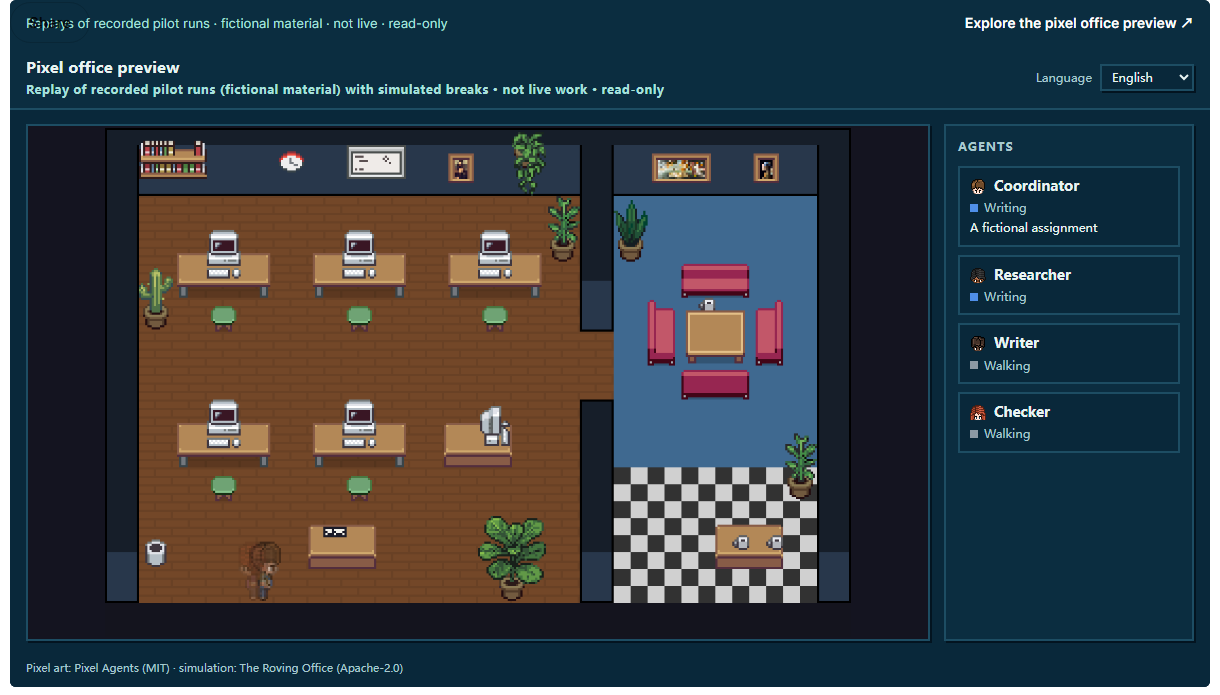
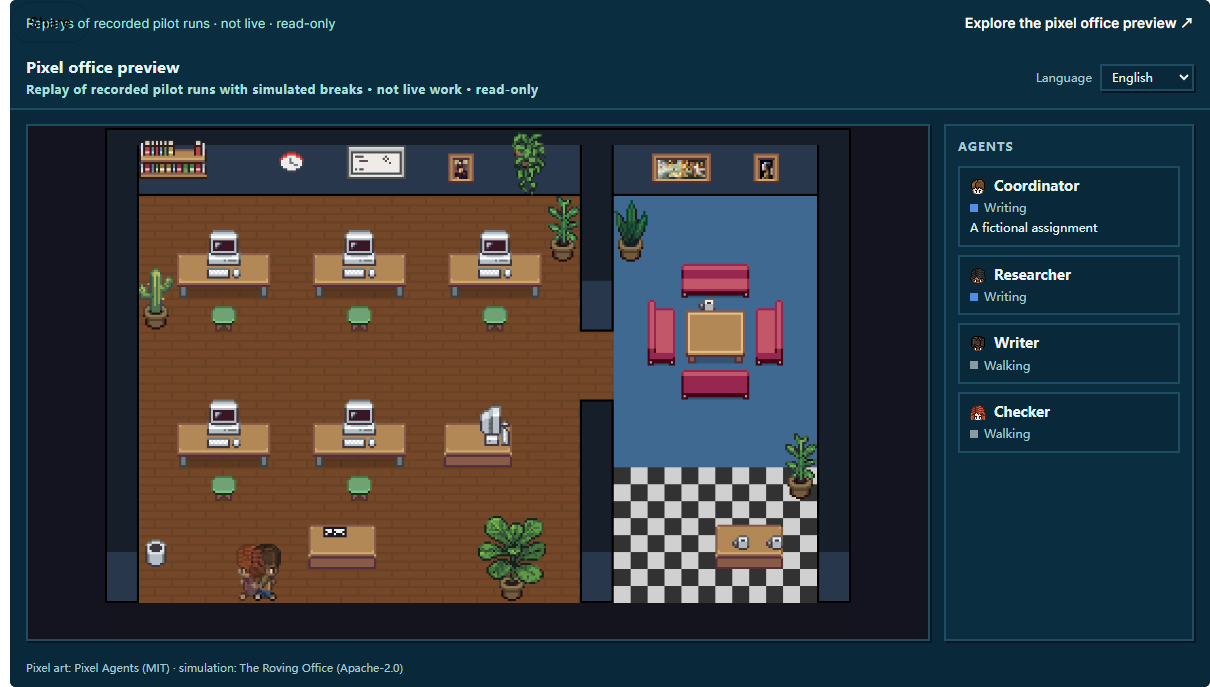
Add the news brief rehearsal and the narrower web access
The showcase now says that pilot runs used fictional material apart from one
unpublished rehearsal on real news, that only the Researcher and the Checker
can read the web, and that the office replays four runs. Test and phrase
counts, the office screenshot and the poster are refreshed.

diff --git a/README.zh-CN.md b/README.zh-CN.md
@@ -10,7 +10,7 @@
 **[打开网站预览](https://tas-stu-notes-preview.azurewebsites.net/?lang=zh-Hans)** · **[一篇文章是怎么做出来的](https://tas-stu-notes-preview.azurewebsites.net/how-we-work/?lang=zh-Hans)** · **[看像素办公室](https://tas-stu-notes-preview.azurewebsites.net/office/?lang=zh-Hans)** · **[条款与隐私](https://tas-stu-notes-preview.azurewebsites.net/terms/?lang=zh-Hans)**
 
 这个仓库是**精选的作品集展示版**，不是源码仓库。这里只有项目介绍、公开预览站的截图和一张海报。
-网站目前是原型，还没有发表任何文章。编辑部只在编辑本人的电脑上私下运行，试运行用的都是虚构材料。
+网站目前是原型，还没有发表任何文章。编辑部只在编辑本人的电脑上私下运行。试运行用的是虚构材料，只有一次彩排（2026 年 11 月 15 日）用了真实的公开新闻，没有发布。
 
 ## 项目现状
 
@@ -28,7 +28,7 @@
 
 1. 打开[预览站](https://tas-stu-notes-preview.azurewebsites.net/?lang=zh-Hans)，在英语、简体中文、孟加拉语、尼泊尔语、韩语和越南语之间切换。默认是英文，除非你自己选了别的语言。
 2. 读[一篇文章是怎么做出来的](https://tas-stu-notes-preview.azurewebsites.net/how-we-work/?lang=zh-Hans)：四个 AI 角色、人类编辑，以及谁批准什么。
-3. 看[像素办公室](https://tas-stu-notes-preview.azurewebsites.net/office/?lang=zh-Hans)：它回放三段录下来的试运行，然后是一段模拟的休息时间。页面上标明是回放，从不冒充实时工作。
+3. 看[像素办公室](https://tas-stu-notes-preview.azurewebsites.net/office/?lang=zh-Hans)：它回放四段录下来的试运行，然后是一段模拟的休息时间。页面上标明是回放，从不冒充实时工作。
 4. 站内搜索（放大镜或 Ctrl+K）、分享页面，或用你的语言订阅 RSS。
 
 | 像素办公室回放 | 一篇文章是怎么做出来的 |
@@ -54,7 +54,7 @@ flowchart LR
 ```
 
 - **一块看板。** 任务以 issue 的形式进入自托管的 Multica 看板，通常来自一条 Slack 消息。协调员把它拆成几步，一次交给一个角色。
-- **角色分开。** 每个任务在自己的工作空间里运行。各角色之间不共享记忆，网页搜索和浏览工具都已关闭，也不能自行加载额外的插件或指令。
+- **角色分开。** 每个任务在自己的工作空间里运行。各角色之间不共享记忆，也不能自行加载额外的插件或指令。只有研究员和核查员能搜索、阅读公开网页；协调员和写稿员没有网页工具，所以写稿员只能根据研究员整理的证据写稿。
 - **请别家公司来核查。** 协调员、研究员、写稿员用 Claude；核查员用 OpenAI 的 Codex，所以不会有模型核查自己写的东西。
 - **分级批准。** 协调员可以批准步骤之间的常规交接；只有人类编辑能关闭整篇任务。若有角色越权关闭了任务，守卫程序会把它重新打开。
 - **回放就是回放。** 私有的办公室画面实时跟随看板，只在编辑的电脑上能看。录像只保留时间、角色和动作种类，不保留标题和文字；每段录像都要人看过，才会变成公开回放。
@@ -67,8 +67,9 @@ flowchart LR
 
 | 检查 | 结果 | 说明了什么 |
 | --- | --- | --- |
-| 编辑部测试，2026-11-15 | 45 项全部通过 | 守卫、办公室信号、录像和回放导出的规则都按设计工作。代码不公开。 |
-| 语言检查，2026-11-15 | 网站 121 个字段、办公室 58 条短语，六种语言齐全，覆盖 15 个页面 | 每种语言都完整、是最新的；不代表译文质量。 |
+| 编辑部测试，2026-11-15 | 46 项全部通过 | 守卫、办公室信号、录像和回放导出的规则都按设计工作。代码不公开。 |
+| 语言检查，2026-11-15 | 网站 121 个字段、办公室 59 条短语，六种语言齐全，覆盖 15 个页面 | 每种语言都完整、是最新的；不代表译文质量。 |
+| 新闻简报彩排，2026-11-15 | 用真实的公开新闻，从 Slack 请求到协调员汇总约 25 分钟。选题由编辑决定。核查员第一轮标出 3 处说过头、1 处未能核实；写稿员改完后，第二轮所有说法都有出处 | 各角色能在编辑选题的前提下，把一项真实新闻任务从头做到尾。发现并修好了两个交接问题：请求被挂到旧任务上，以及一次 @ 写法不对让流程停了约 10 分钟。没有发布任何内容。 |
 | 分级批准试运行，2026-11-13 | 约 90 秒内完成三次协调员批准；守卫没有撤回任何操作 | 在虚构材料上，各角色遵守了批准规则。这是一次短时试运行，不是持续运营。 |
 | 公开预览站，2026-11-13 至 15 | 页面、订阅源和回放都正常；写入请求被拒绝；没有实时事件接口；不设置任何 Cookie | 公开站是只读的，无法显示实时工作。 |
 
@@ -82,7 +83,8 @@ flowchart LR
 ## 还没完成的
 
 - 还没有发表文章，也还没开放投稿。
-- 编辑部只在虚构材料上做过短时试运行。
+- 编辑部只做过短时试运行：用虚构材料，加上一次没有发布的真实新闻彩排。
+- 研究员和核查员的上网范围还没限制到一份批准的网站清单。
 - 守卫程序是事后纠正，不能事先阻止操作。
 - 四个角色目前共用一个上锁的容器；每个角色单独一个容器还在计划中。
 - 译文和条款页还需要母语者和律师审阅。

diff --git a/README.md b/README.md
@@ -12,7 +12,8 @@
 This is a **curated portfolio showcase**, not the source repository. It holds a
 project account, screenshots of the public preview and a poster. The website is
 a prototype with no published stories yet. The newsroom runs privately on the
-editor's computer, and its pilot runs used fictional material.
+editor's computer. Its pilot runs used fictional material, apart from one
+rehearsal on real public news (15 November 2026) that was not published.
 
 ## At a glance
 
@@ -30,7 +31,7 @@ editor's computer, and its pilot runs used fictional material.
 
 1. Open the [preview](https://tas-stu-notes-preview.azurewebsites.net/) and switch among English, Simplified Chinese, Bangla, Nepali, Korean and Vietnamese. The site opens in English unless you pick a language.
 2. Read [How a story is made](https://tas-stu-notes-preview.azurewebsites.net/how-we-work/): the four AI roles, the human editor and who approves what.
-3. Watch the [pixel office](https://tas-stu-notes-preview.azurewebsites.net/office/). It replays three recorded pilot runs, then shows a simulated break. It is labelled as a replay, never as live work.
+3. Watch the [pixel office](https://tas-stu-notes-preview.azurewebsites.net/office/). It replays four recorded pilot runs, then shows a simulated break. It is labelled as a replay, never as live work.
 4. Search the site (the magnifier, or Ctrl+K), share a page, or follow it by RSS in your language.
 
 | Pixel office replay | How a story is made |
@@ -57,7 +58,7 @@ flowchart LR
 ```
 
 - **One board.** Work arrives as an issue on a self-hosted Multica board, usually from a Slack message. The Coordinator splits it into steps and hands each to one role at a time.
-- **Separate roles.** Each task runs in its own working space. The agents share no memory, have their web search and browsing tools switched off, and cannot load extra plug-ins or instructions.
+- **Separate roles.** Each task runs in its own working space. The agents share no memory and cannot load extra plug-ins or instructions. Only the Researcher and the Checker can search and read public web pages; the Coordinator and the Writer have no web tools, so the Writer works only from the Researcher's evidence.
 - **A second opinion from elsewhere.** The Coordinator, Researcher and Writer run on Claude; the Checker runs on OpenAI's Codex, so no model checks its own writing.
 - **Tiered approval.** The Coordinator may approve the routine hand-off between steps. Only the human editor can close the main piece. A guard reopens anything an agent closes beyond its rights.
 - **Honest replays.** A private office view follows the board live, on the editor's computer only. A recorder keeps only the time, the role and the kind of movement, with no titles or text. A person reviews each recording before it becomes a public replay.
@@ -70,8 +71,9 @@ Dated checks, not claims of a production newsroom:
 
 | Check | Result | What it shows |
 | --- | --- | --- |
-| Newsroom tests, 15 Nov 2026 | 45 of 45 passed | Rules for the guard, the office feed, the recorder and the replay export behave as written. The code is private. |
-| Language check, 15 Nov 2026 | 121 site fields and 58 office phrases complete in six languages, across 15 pages | Every language is complete and current. It does not prove translation quality. |
+| Newsroom tests, 15 Nov 2026 | 46 of 46 passed | Rules for the guard, the office feed, the recorder and the replay export behave as written. The code is private. |
+| Language check, 15 Nov 2026 | 121 site fields and 59 office phrases complete in six languages, across 15 pages | Every language is complete and current. It does not prove translation quality. |
+| News brief rehearsal, 15 Nov 2026 | Real public news, from a Slack request to the Coordinator's summary in about 25 minutes. The editor picked the stories. The Checker's first round marked 3 claims overstated and 1 unverified; after the Writer's fixes, the second round found every claim supported | The roles can carry a real news task from start to finish while the editor chooses the stories. Two hand-off faults were found and fixed: a request attached to an old issue, and a malformed mention that stalled the run for about 10 minutes. Nothing was published. |
 | Tiered-approval pilot, 13 Nov 2026 | Three Coordinator approvals in about 90 seconds; the guard reverted nothing | Roles followed the approval rules on fictional material. It was a short pilot, not sustained operation. |
 | Public preview, 13–15 Nov 2026 | Pages, feeds and replays answered; write requests were refused; the live-event route is absent; no cookies are set | The public site is read-only and cannot show live work. |
 
@@ -87,7 +89,8 @@ checked each step in the running system.
 ## What is not finished
 
 - No stories are published and no submissions are collected yet.
-- The newsroom has run short pilots on fictional material only.
+- The newsroom has run short pilots: on fictional material, and one rehearsal on real news that was not published.
+- Web access for the Researcher and the Checker is not yet limited to a list of approved sites.
 - The guard reacts after the fact; it does not prevent an action in advance.
 - The four agents share one locked container; separate containers per role are planned.
 - Translations and the terms page still need review by native speakers and by a lawyer.

diff --git a/docs/how-the-newsroom-works.md b/docs/how-the-newsroom-works.md
@@ -1,8 +1,8 @@
 # How the newsroom works
 
 Snapshot: 15 November 2026. This describes a private pilot that runs on the
-editor's own computer. It has only handled fictional material so far, and no
-story has been published through it.
+editor's own computer. It has handled fictional material and one rehearsal on
+real public news (15 November 2026); no story has been published through it.
 
 ## The pieces
 
@@ -54,6 +54,7 @@ flowchart TB
 | Splitting a request into steps and assigning them | Coordinator |
 | Approving the routine hand-off from one step to the next | Coordinator |
 | Judging whether claims hold up against sources | Checker |
+| Picking the stories for a news brief | Human editor |
 | Big decisions, anything unclear, and every final result | Human editor |
 | Publishing, outside contact, corrections | Human editor only |
 
@@ -64,8 +65,11 @@ outside the project, and nothing is published automatically.
 
 - Each task runs in its own working directory and session; agents do not share
   memory between tasks or with each other.
-- Managed settings switch off web search and browsing tools, saved memory,
-  user-level instructions and extra plug-ins for every role.
+- Managed settings switch off saved memory, user-level instructions and extra
+  plug-ins for every role.
+- Only the Researcher and the Checker can search and read public web pages, and
+  LinkedIn is blocked for both. The Coordinator and the Writer have no web
+  tools, so the Writer works only from the Researcher's evidence.
 - Each role is a separate agent on the board, so every action is attributed to it.
 
 ## Limits
@@ -73,6 +77,8 @@ outside the project, and nothing is published automatically.
 - The guard corrects after the fact; it cannot stop an action in advance.
 - All four roles still share one container. Separate containers per role are
   planned.
-- Runs so far are short pilots on fictional material.
+- Runs so far are short pilots on fictional material, plus one rehearsal on
+  real news that was not published.
+- Web access is not yet limited to a list of approved sites.
 - The public website does not connect to the newsroom. It only receives replay
   files that a person has exported and checked.

diff --git a/THIRD_PARTY_NOTICES.md b/THIRD_PARTY_NOTICES.md
@@ -24,7 +24,7 @@ Notes:
   from the Pixel Agents art (MIT).
 - Screenshots were captured from the [public Azure preview](https://tas-stu-notes-preview.azurewebsites.net/)
   on 15 November 2026. The office in them plays replays of recorded pilot runs
-  (fictional material) with simulated breaks; it does not show live work.
+  with simulated breaks; it does not show live work.
 
 No student contribution, private editorial record, model prompt or credential is
 included in this repository.
